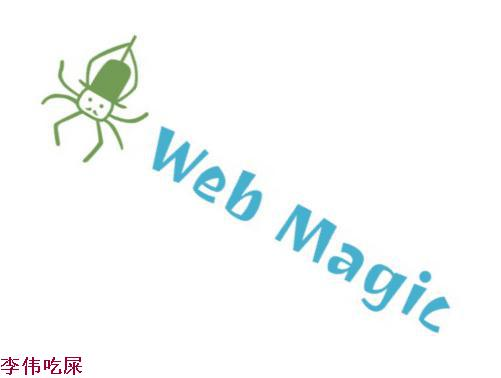
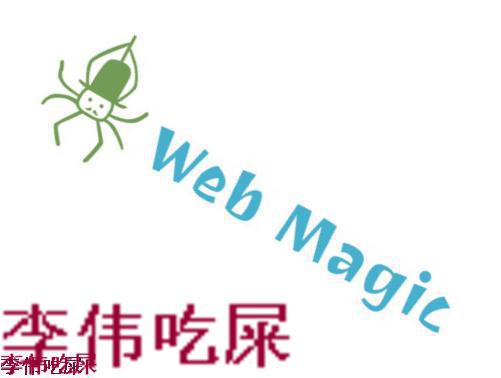
update new crawler method

Changed region(s): [[0.0, 0.7857, 0.5988, 1.0]]

diff --git a/src/main/java/com/example/webmagic/util/GraphUtil.java b/src/main/java/com/example/webmagic/util/GraphUtil.java
@@ -54,9 +54,11 @@ public class GraphUtil {
      * @param gravity  图片位置
      * @param dissolve 水印透明度
      */
-    public static void addWaterPic(String waterImagePath, String srcImagePath, String destImagePath, String gravity, int dissolve) {
+    public static void addWaterPic(String waterImagePath, String srcImagePath,
+                                   String destImagePath, String gravity, int dissolve, int width, int height) {
         IMOperation op = new IMOperation();
         op.gravity(gravity); //位置center：中心;northwest：左上;southeast：右下
+        op.geometry(width, height);
         op.dissolve(dissolve); //水印清晰度 ，0-100  最好设置高点要不看起来没效果
         op.addImage(waterImagePath);
         op.addImage(srcImagePath);

diff --git a/src/test/java/com/example/webmagic/UtilTest.java b/src/test/java/com/example/webmagic/UtilTest.java
@@ -15,6 +15,6 @@ public class UtilTest {
 //        GraphUtil.converFontToImage("李闱吃屎", "宋体", 20, "990033",
 //                "image\\" + System.currentTimeMillis() + ".png");
 //        GraphUtil.addWaterPic("image\\1529983188324.png", "image\\1529981616233.jpeg",
-//                "image\\1529981616233.jpeg", "southwest", 100);
+//                "image\\1529981616233.jpeg", "southwest", 100, 300, 300);
     }
 }
